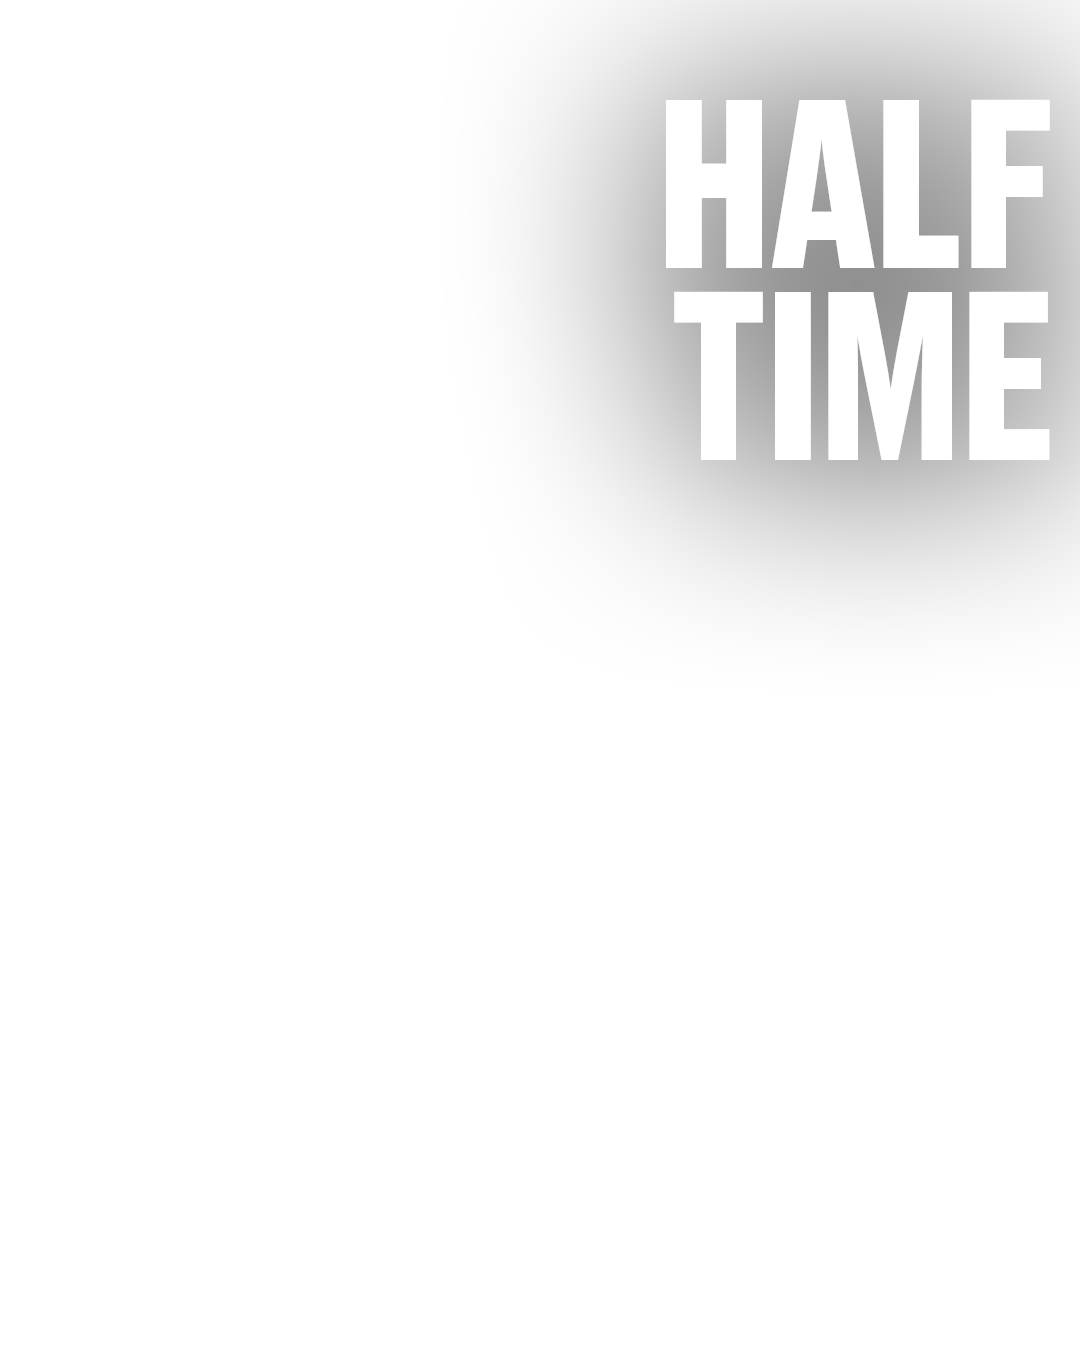
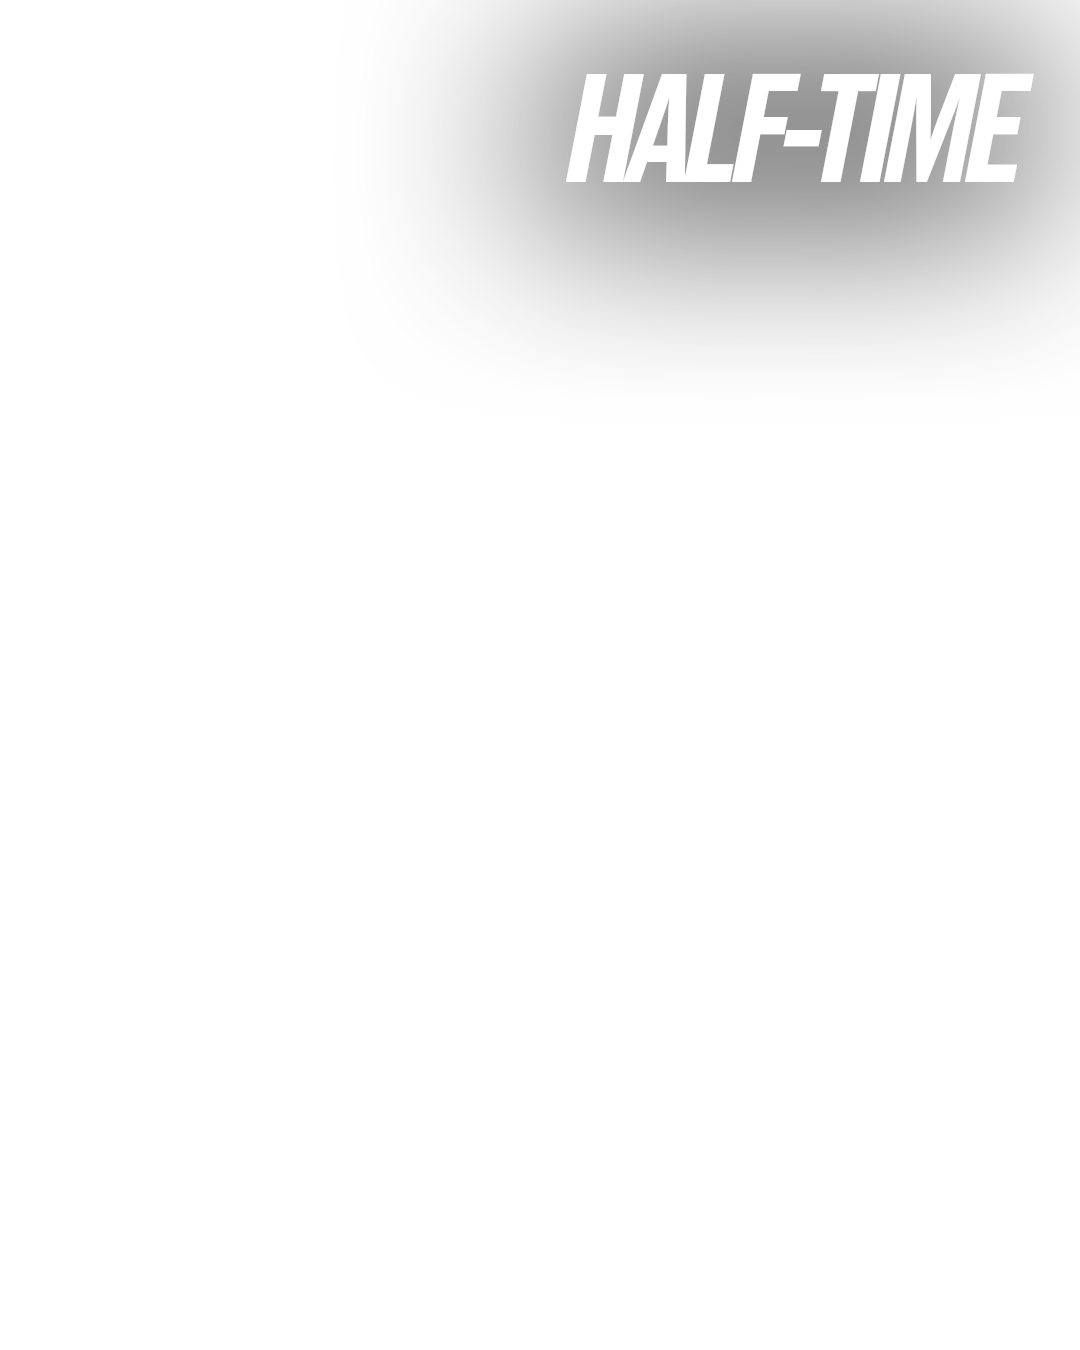
REWORK - Half-time Full-time

Changed region(s): [[0.4278, 0.0, 1.0, 0.4356]]

diff --git a/script.js b/script.js
@@ -54,40 +54,36 @@ const apiKeyThird = '29CqKVDrjSrQKCmAC5qXHayL';
 const graphicStyles = {
     'fulltime': {
         'overlay_4x5': {
-            homeLogo: { x: 70, y: 970, width: 150, height: 150 },
-            awayLogo: { x: 70, y: 1145, width: 150, height: 150 },
-            championshipLogo: { x: 70, y: 85, width: 130, height: 212 },
-            homeScore: { x: 260, y: 1100, fontSize: 164, color: 'white', font: 'bodoni-72-bold', letterSpacing: 0 },
-            awayScore: { x: 260, y: 1275, fontSize: 164, color: 'white', font: 'bodoni-72-bold', letterSpacing: 0 },
+            homeLogo: { x: 575, y: 205, width: 100, height: 100 },
+            awayLogo: { x: 915, y: 205, width: 100, height: 100 },
+            championshipLogo: null,
+            combinedScore: { x: 785, y: 300, fontSize: 125, color: 'white', font: 'bodoni-72-book-italic', letterSpacing: 0, textAlign: 'center' },
             dateTime: null,
             matchDay: null // Non richiesto per questa grafica
         },
         'overlay_9x16': {
-            homeLogo: { x: 70, y: 1470, width: 150, height: 150 },
-            awayLogo: { x: 70, y: 1645, width: 150, height: 150 },
-            championshipLogo: { x: 70, y: 150, width: 130, height: 212 },
-            homeScore: { x: 260, y: 1600, fontSize: 164, color: 'white', font: 'bodoni-72-bold', letterSpacing: 0 },
-            awayScore: { x: 260, y: 1775, fontSize: 164, color: 'white', font: 'bodoni-72-bold', letterSpacing: 0 },
+            homeLogo: { x: 575, y: 335, width: 100, height: 100 },
+            awayLogo: { x: 900, y: 335, width: 100, height: 100 },
+            championshipLogo: null,
+            combinedScore: { x: 785, y: 430, fontSize: 125, color: 'white', font: 'bodoni-72-book-italic', letterSpacing: 0, textAlign: 'center' },
             dateTime: null,
             matchDay: null // Non richiesto per questa grafica
         }
     },
     'halftime': {
         'overlay_4x5': {
-            homeLogo: { x: 70, y: 970, width: 150, height: 150 },
-            awayLogo: { x: 70, y: 1145, width: 150, height: 150 },
-            championshipLogo: { x: 70, y: 85, width: 130, height: 212 },
-            homeScore: { x: 260, y: 1100, fontSize: 164, color: 'white', font: 'bodoni-72-bold', letterSpacing: 0 },
-            awayScore: { x: 260, y: 1275, fontSize: 164, color: 'white', font: 'bodoni-72-bold', letterSpacing: 0 },
+            homeLogo: { x: 575, y: 205, width: 100, height: 100 },
+            awayLogo: { x: 915, y: 205, width: 100, height: 100 },
+            championshipLogo: null,
+            combinedScore: { x: 785, y: 300, fontSize: 125, color: 'white', font: 'bodoni-72-book-italic', letterSpacing: 0, textAlign: 'center' },
             dateTime: null,
             matchDay: null // Non richiesto per questa grafica
         },
         'overlay_9x16': {
-            homeLogo: { x: 70, y: 1470, width: 150, height: 150 },
-            awayLogo: { x: 70, y: 1645, width: 150, height: 150 },
-            championshipLogo: { x: 70, y: 150, width: 130, height: 212 },
-            homeScore: { x: 260, y: 1600, fontSize: 164, color: 'white', font: 'bodoni-72-bold', letterSpacing: 0 },
-            awayScore: { x: 260, y: 1775, fontSize: 164, color: 'white', font: 'bodoni-72-bold', letterSpacing: 0 },
+            homeLogo: { x: 575, y: 335, width: 100, height: 100 },
+            awayLogo: { x: 900, y: 335, width: 100, height: 100 },
+            championshipLogo: null,
+            combinedScore: { x: 785, y: 430, fontSize: 125, color: 'white', font: 'bodoni-72-book-italic', letterSpacing: 0, textAlign: 'center' },
             dateTime: null,
             matchDay: null // Non richiesto per questa grafica
         }
@@ -2886,24 +2882,35 @@ async function generatePreviews() {
                             }
                         }
 
-                        // Disegna i punteggi
-                        if (style.homeScore && style.awayScore) {
-                            ctx.font = `bold ${style.homeScore.fontSize}px ${style.homeScore.font}`;
-                            ctx.fillStyle = style.homeScore.color;
-                            ctx.textAlign = 'left';
-                            if (style.homeScore.letterSpacing) {
-                                drawTextWithLetterSpacing(ctx, homeScore, style.homeScore.x, style.homeScore.y, style.homeScore.letterSpacing);
-                            } else {
-                                ctx.fillText(homeScore, style.homeScore.x, style.homeScore.y);
-                            }
+                        if (graphicName === 'fulltime' || graphicName === 'halftime') {
+                            // Disegna i punteggi orizzontali
+                            const combinedText = `${homeScore}-${awayScore}`;
 
-                            ctx.font = `bold ${style.awayScore.fontSize}px ${style.awayScore.font}`;
-                            ctx.fillStyle = style.awayScore.color;
-                            ctx.textAlign = 'left';
-                            if (style.awayScore.letterSpacing) {
-                                drawTextWithLetterSpacing(ctx, awayScore, style.awayScore.x, style.awayScore.y, style.awayScore.letterSpacing);
-                            } else {
-                                ctx.fillText(awayScore, style.awayScore.x, style.awayScore.y);
+                            // Disegna il testo combinato
+                            ctx.font = `bold ${style.combinedScore.fontSize}px ${style.combinedScore.font}`;
+                            ctx.fillStyle = style.combinedScore.color;
+                            ctx.textAlign = style.combinedScore.textAlign;
+                            ctx.fillText(combinedText, style.combinedScore.x, style.combinedScore.y);
+                        } else {
+                            // Disegna i punteggi
+                            if (style.homeScore && style.awayScore) {
+                                ctx.font = `bold ${style.homeScore.fontSize}px ${style.homeScore.font}`;
+                                ctx.fillStyle = style.homeScore.color;
+                                ctx.textAlign = 'left';
+                                if (style.homeScore.letterSpacing) {
+                                    drawTextWithLetterSpacing(ctx, homeScore, style.homeScore.x, style.homeScore.y, style.homeScore.letterSpacing);
+                                } else {
+                                    ctx.fillText(homeScore, style.homeScore.x, style.homeScore.y);
+                                }
+
+                                ctx.font = `bold ${style.awayScore.fontSize}px ${style.awayScore.font}`;
+                                ctx.fillStyle = style.awayScore.color;
+                                ctx.textAlign = 'left';
+                                if (style.awayScore.letterSpacing) {
+                                    drawTextWithLetterSpacing(ctx, awayScore, style.awayScore.x, style.awayScore.y, style.awayScore.letterSpacing);
+                                } else {
+                                    ctx.fillText(awayScore, style.awayScore.x, style.awayScore.y);
+                                }
                             }
                         }
 

diff --git a/index.html b/index.html
@@ -105,7 +105,7 @@ marco305278.github.io/como_gra
                     <input type="checkbox" id="goal" name="graphic" value="goal">
                     <label for="goal">Goal</label>
                     
-                    <input type="checkbox" id="halftime" name="graphic" value="halftime">
+                    <input type="checkbox" checked id="halftime" name="graphic" value="halftime">
                     <label for="halftime">Half Time</label>
                     
                     <input type="checkbox" id="fulltime" name="graphic" value="fulltime">
